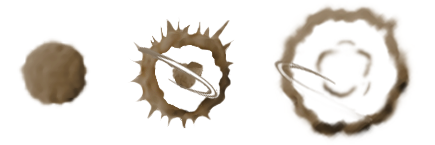
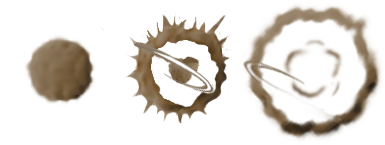
Fixed Lasgula bug.

Changed region(s): [[0.6234, 0.0276, 0.9974, 0.9655], [0.2805, 0.1103, 0.5922, 0.8828], [0.0312, 0.2483, 0.2494, 0.7448]]

diff --git a/Player.h b/Player.h
@@ -225,9 +225,13 @@ public:
 	}
 
 	void TurnOnLasgulaState() override {
-		_isLasgula = true;
-		_tmp = GetAttackDamage();
-		SetAttackDamage(100);
+    if (_isLasgula) {
+      _lasgulaElapsedTime = 0.0;
+    } else {
+			_isLasgula = true;
+			_tmp = GetAttackDamage();
+			SetAttackDamage(100);
+    }
 	}
 
 	bool IsLasgula() override {

diff --git a/EntryScene.cpp b/EntryScene.cpp
@@ -29,6 +29,9 @@ EntryScene::EntryScene()
 	);
 	_mainComs.highScore->SetPositionLayout(PositionLayout::LAYOUT_ABSOLUTE);
 
+	// Background Corona
+	_mainComs.backgroundCorona = new Container(0, 0, 1990, 1080);
+
 	//background
 	_mainComs.background = new SingleSpriteRenderable<MainMenuComponents>();
 	_mainComs.background->BindSprite(

diff --git a/EntryScene.h b/EntryScene.h
@@ -15,6 +15,7 @@ class EntryScene: public IScene
 	class Container* _mainMenuContainer;
 	struct MainMenuComponents
 	{
+		Container* backgroundCorona;
 		SingleSpriteRenderable<MainMenuComponents>* background;
 		Container* lazanya;
 		Container* title;
